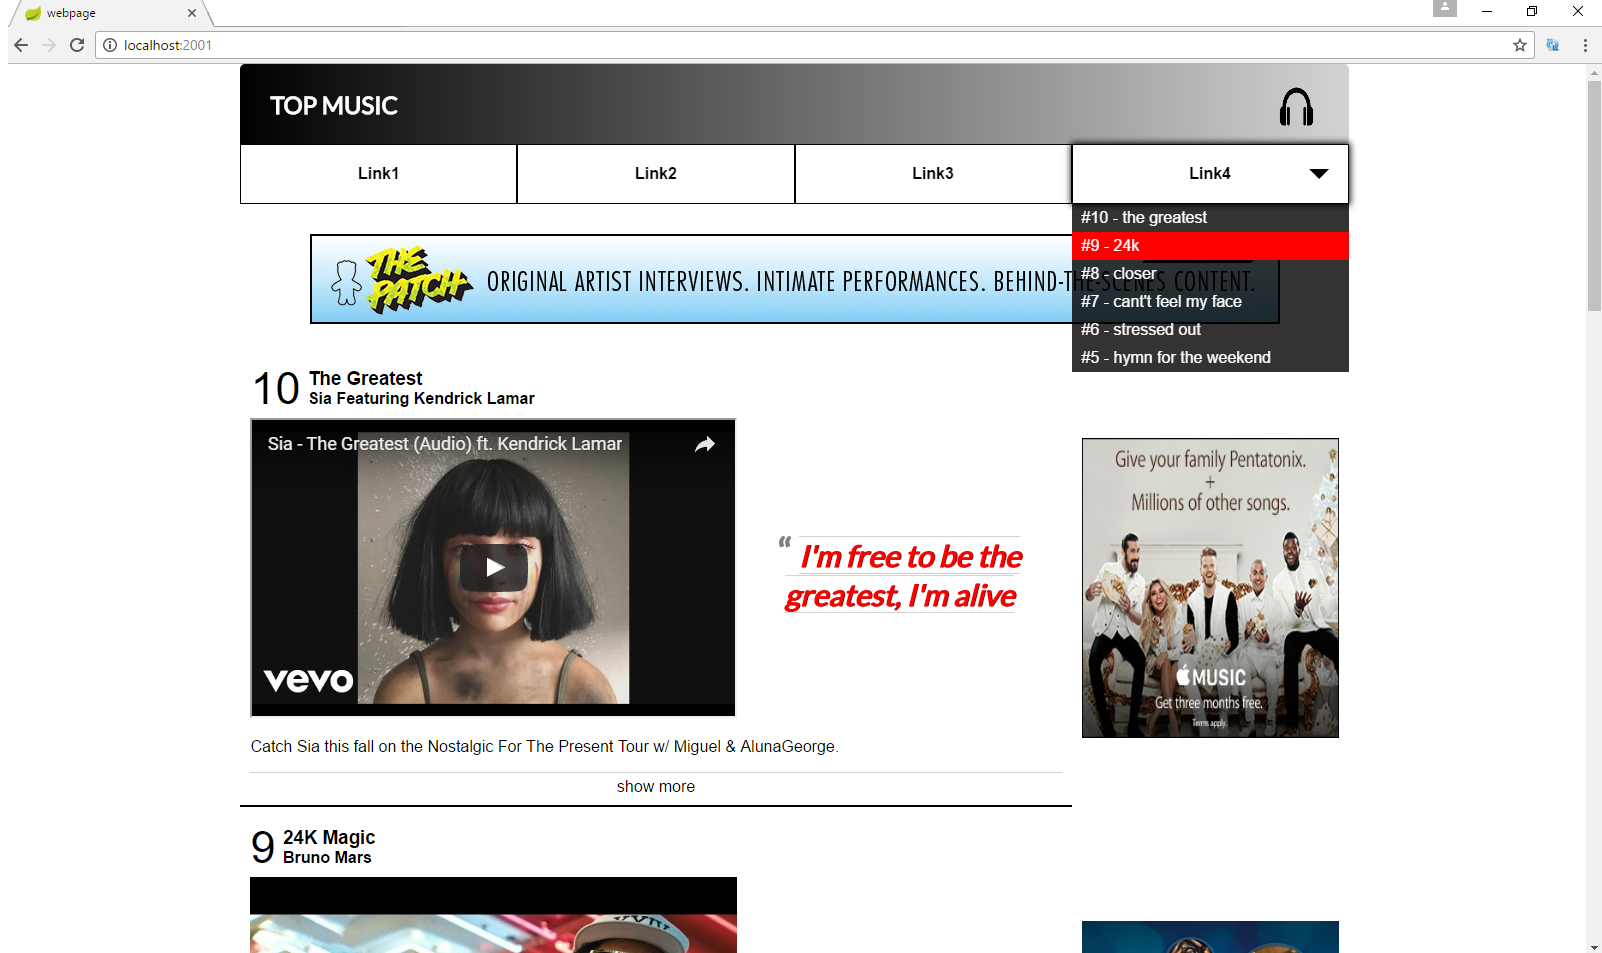
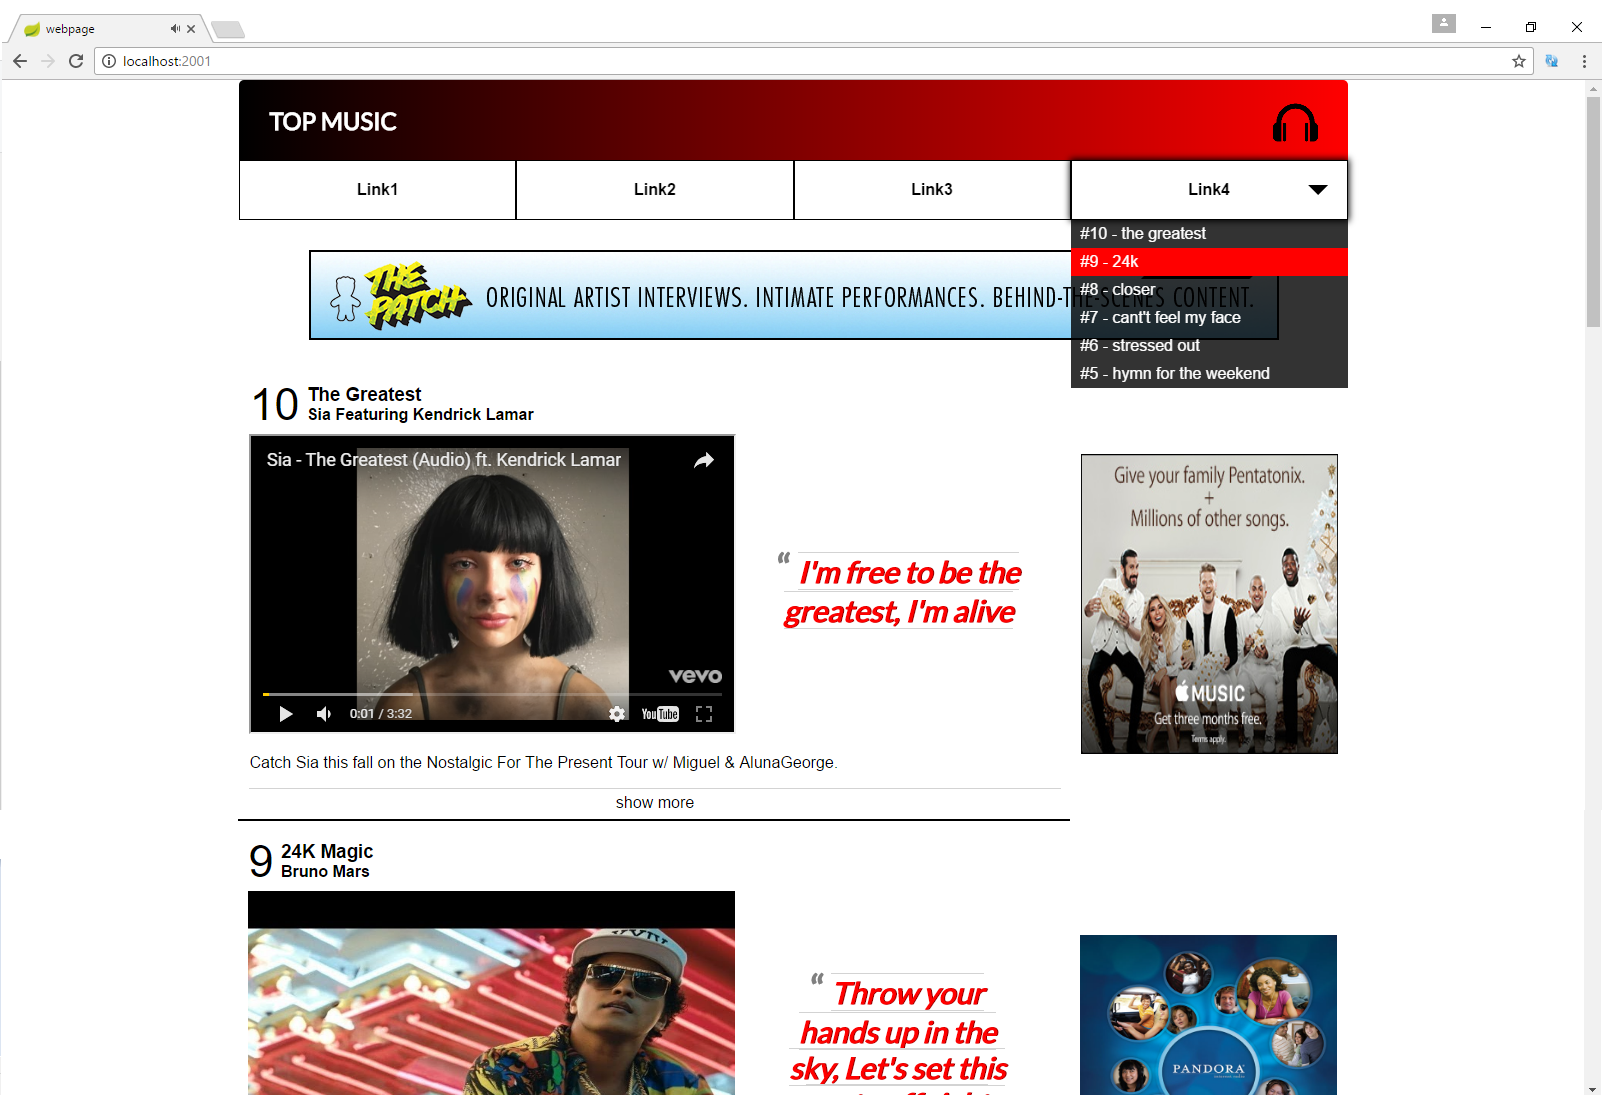
update screenshots

diff --git a/webpage/src/main/resources/webapp/style/main.css b/webpage/src/main/resources/webapp/style/main.css
@@ -14,7 +14,7 @@ h1, h2, h3, h4, h5, h6 {
 #pageHeader {
  padding: 40px;
  color: white;
- background: linear-gradient(to right, black, lightgrey);
+ background: linear-gradient(to right, black, red);
  border-radius: 5px 5px 0px 0px;
  position: relative;
 }
